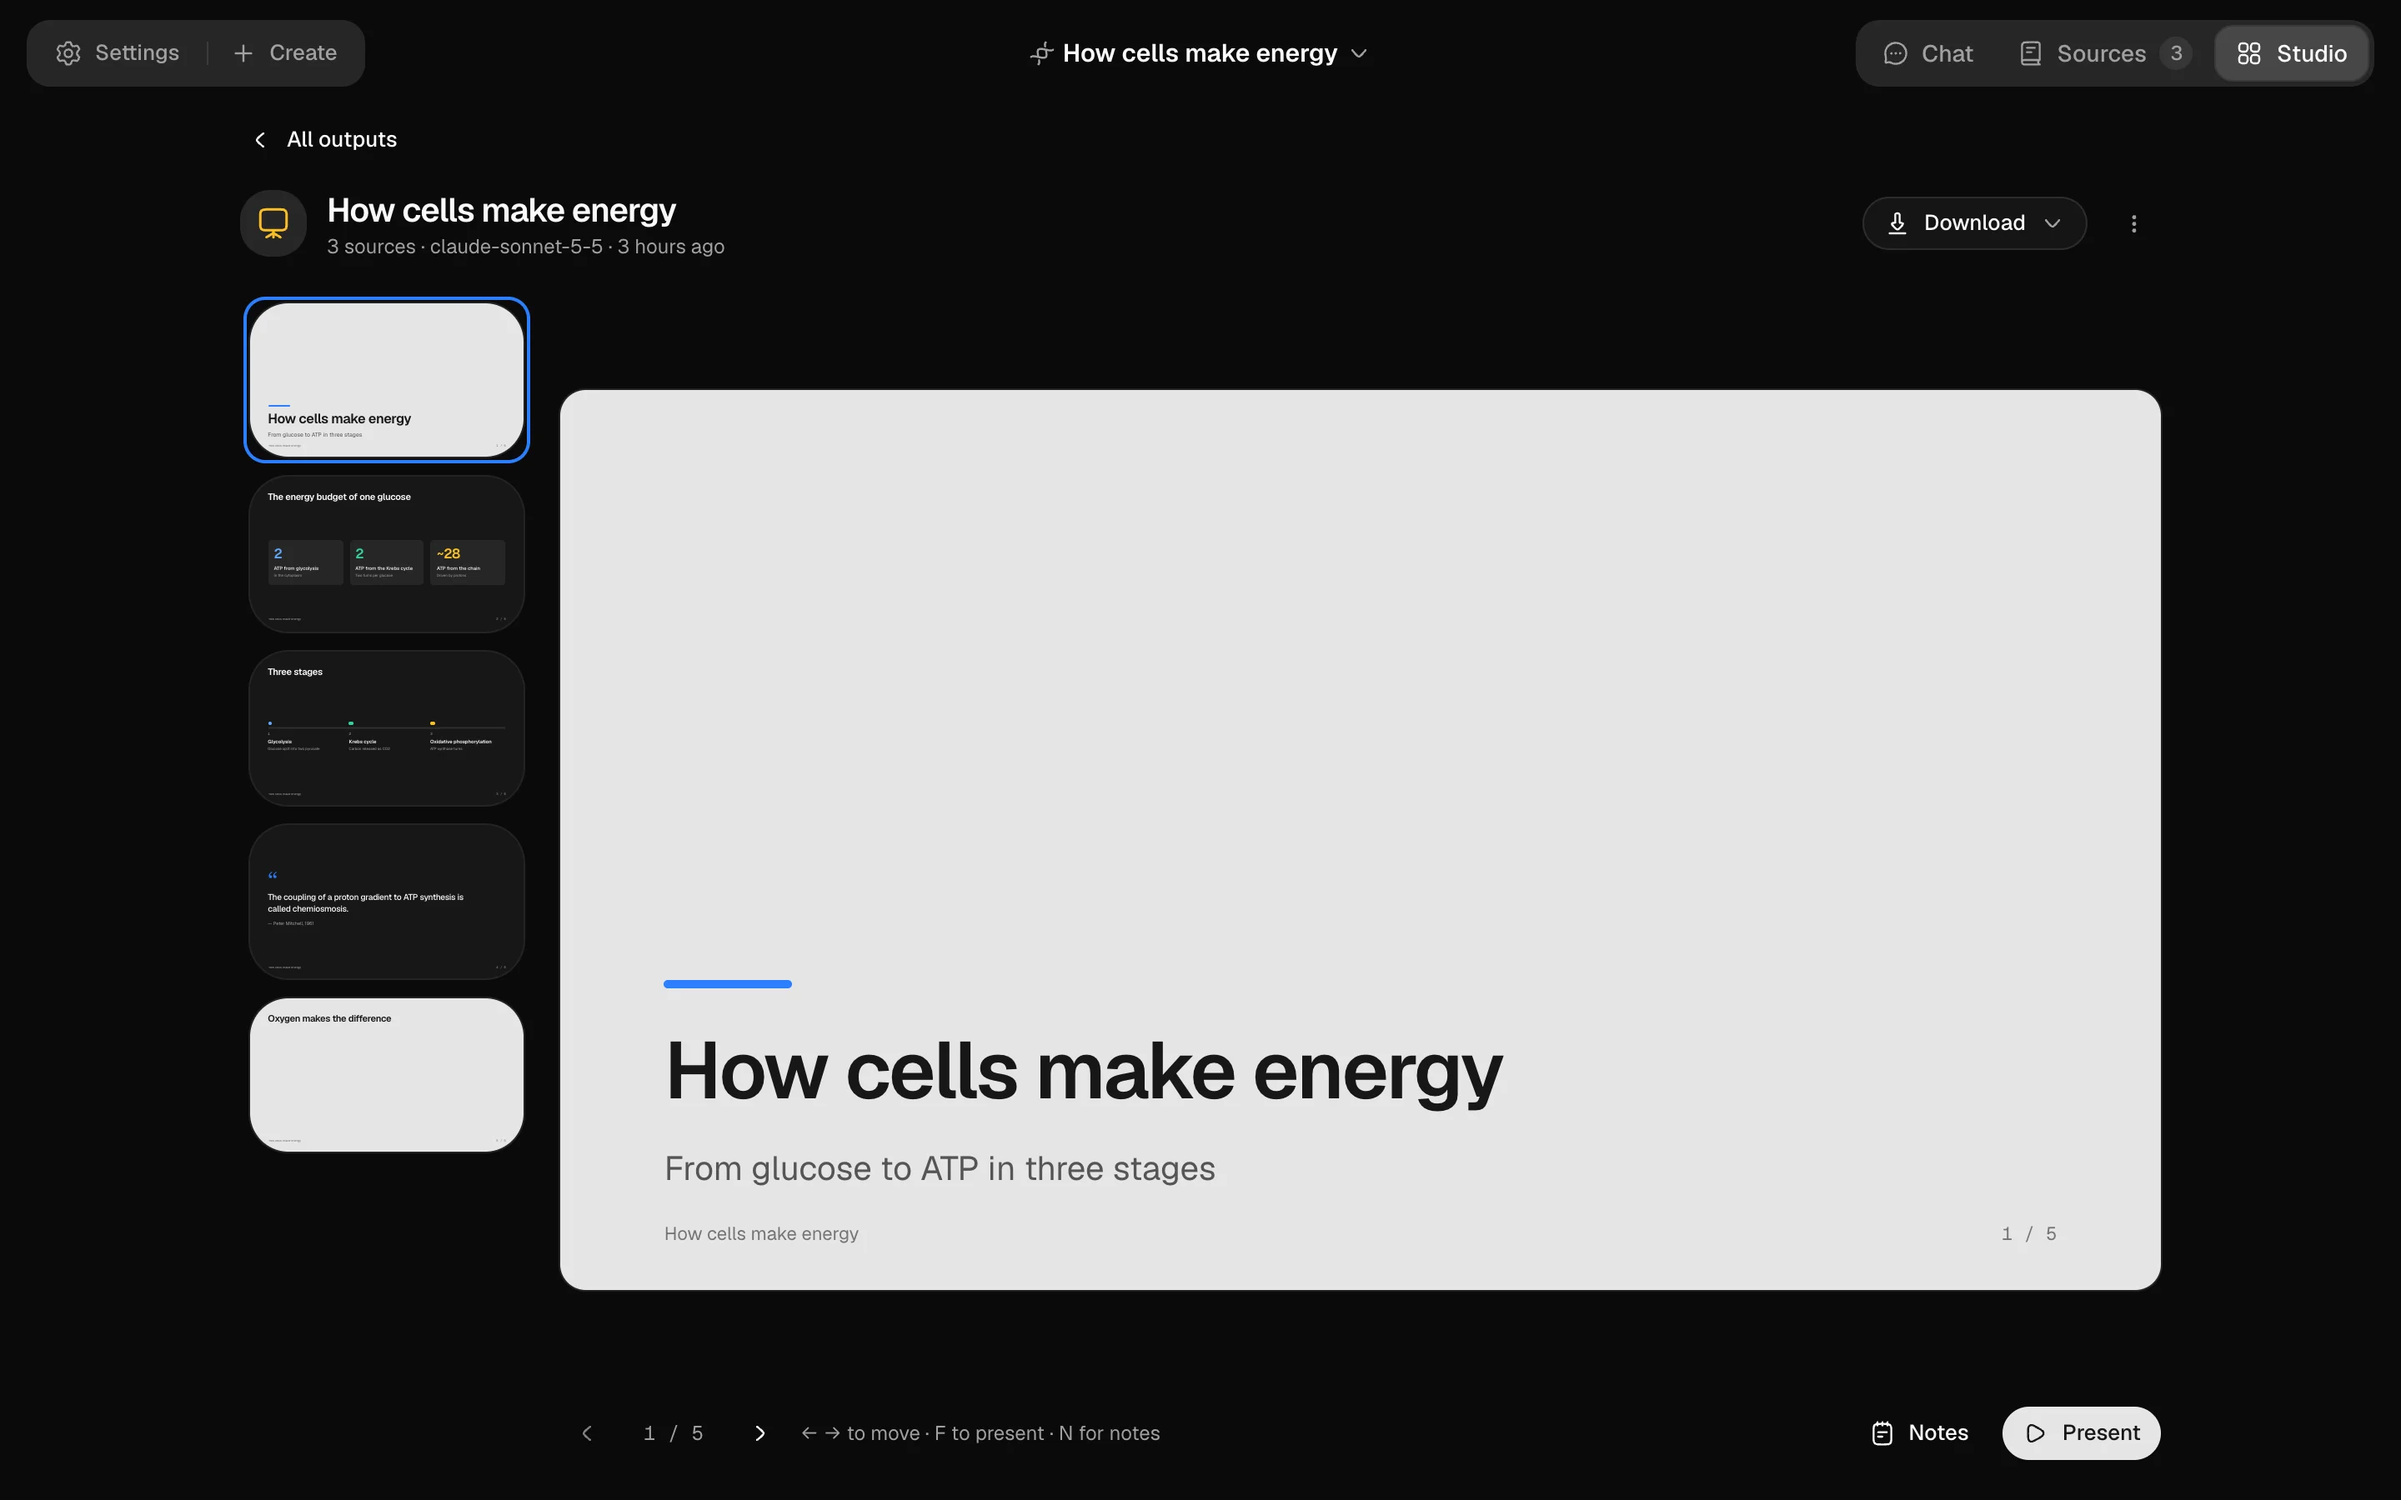
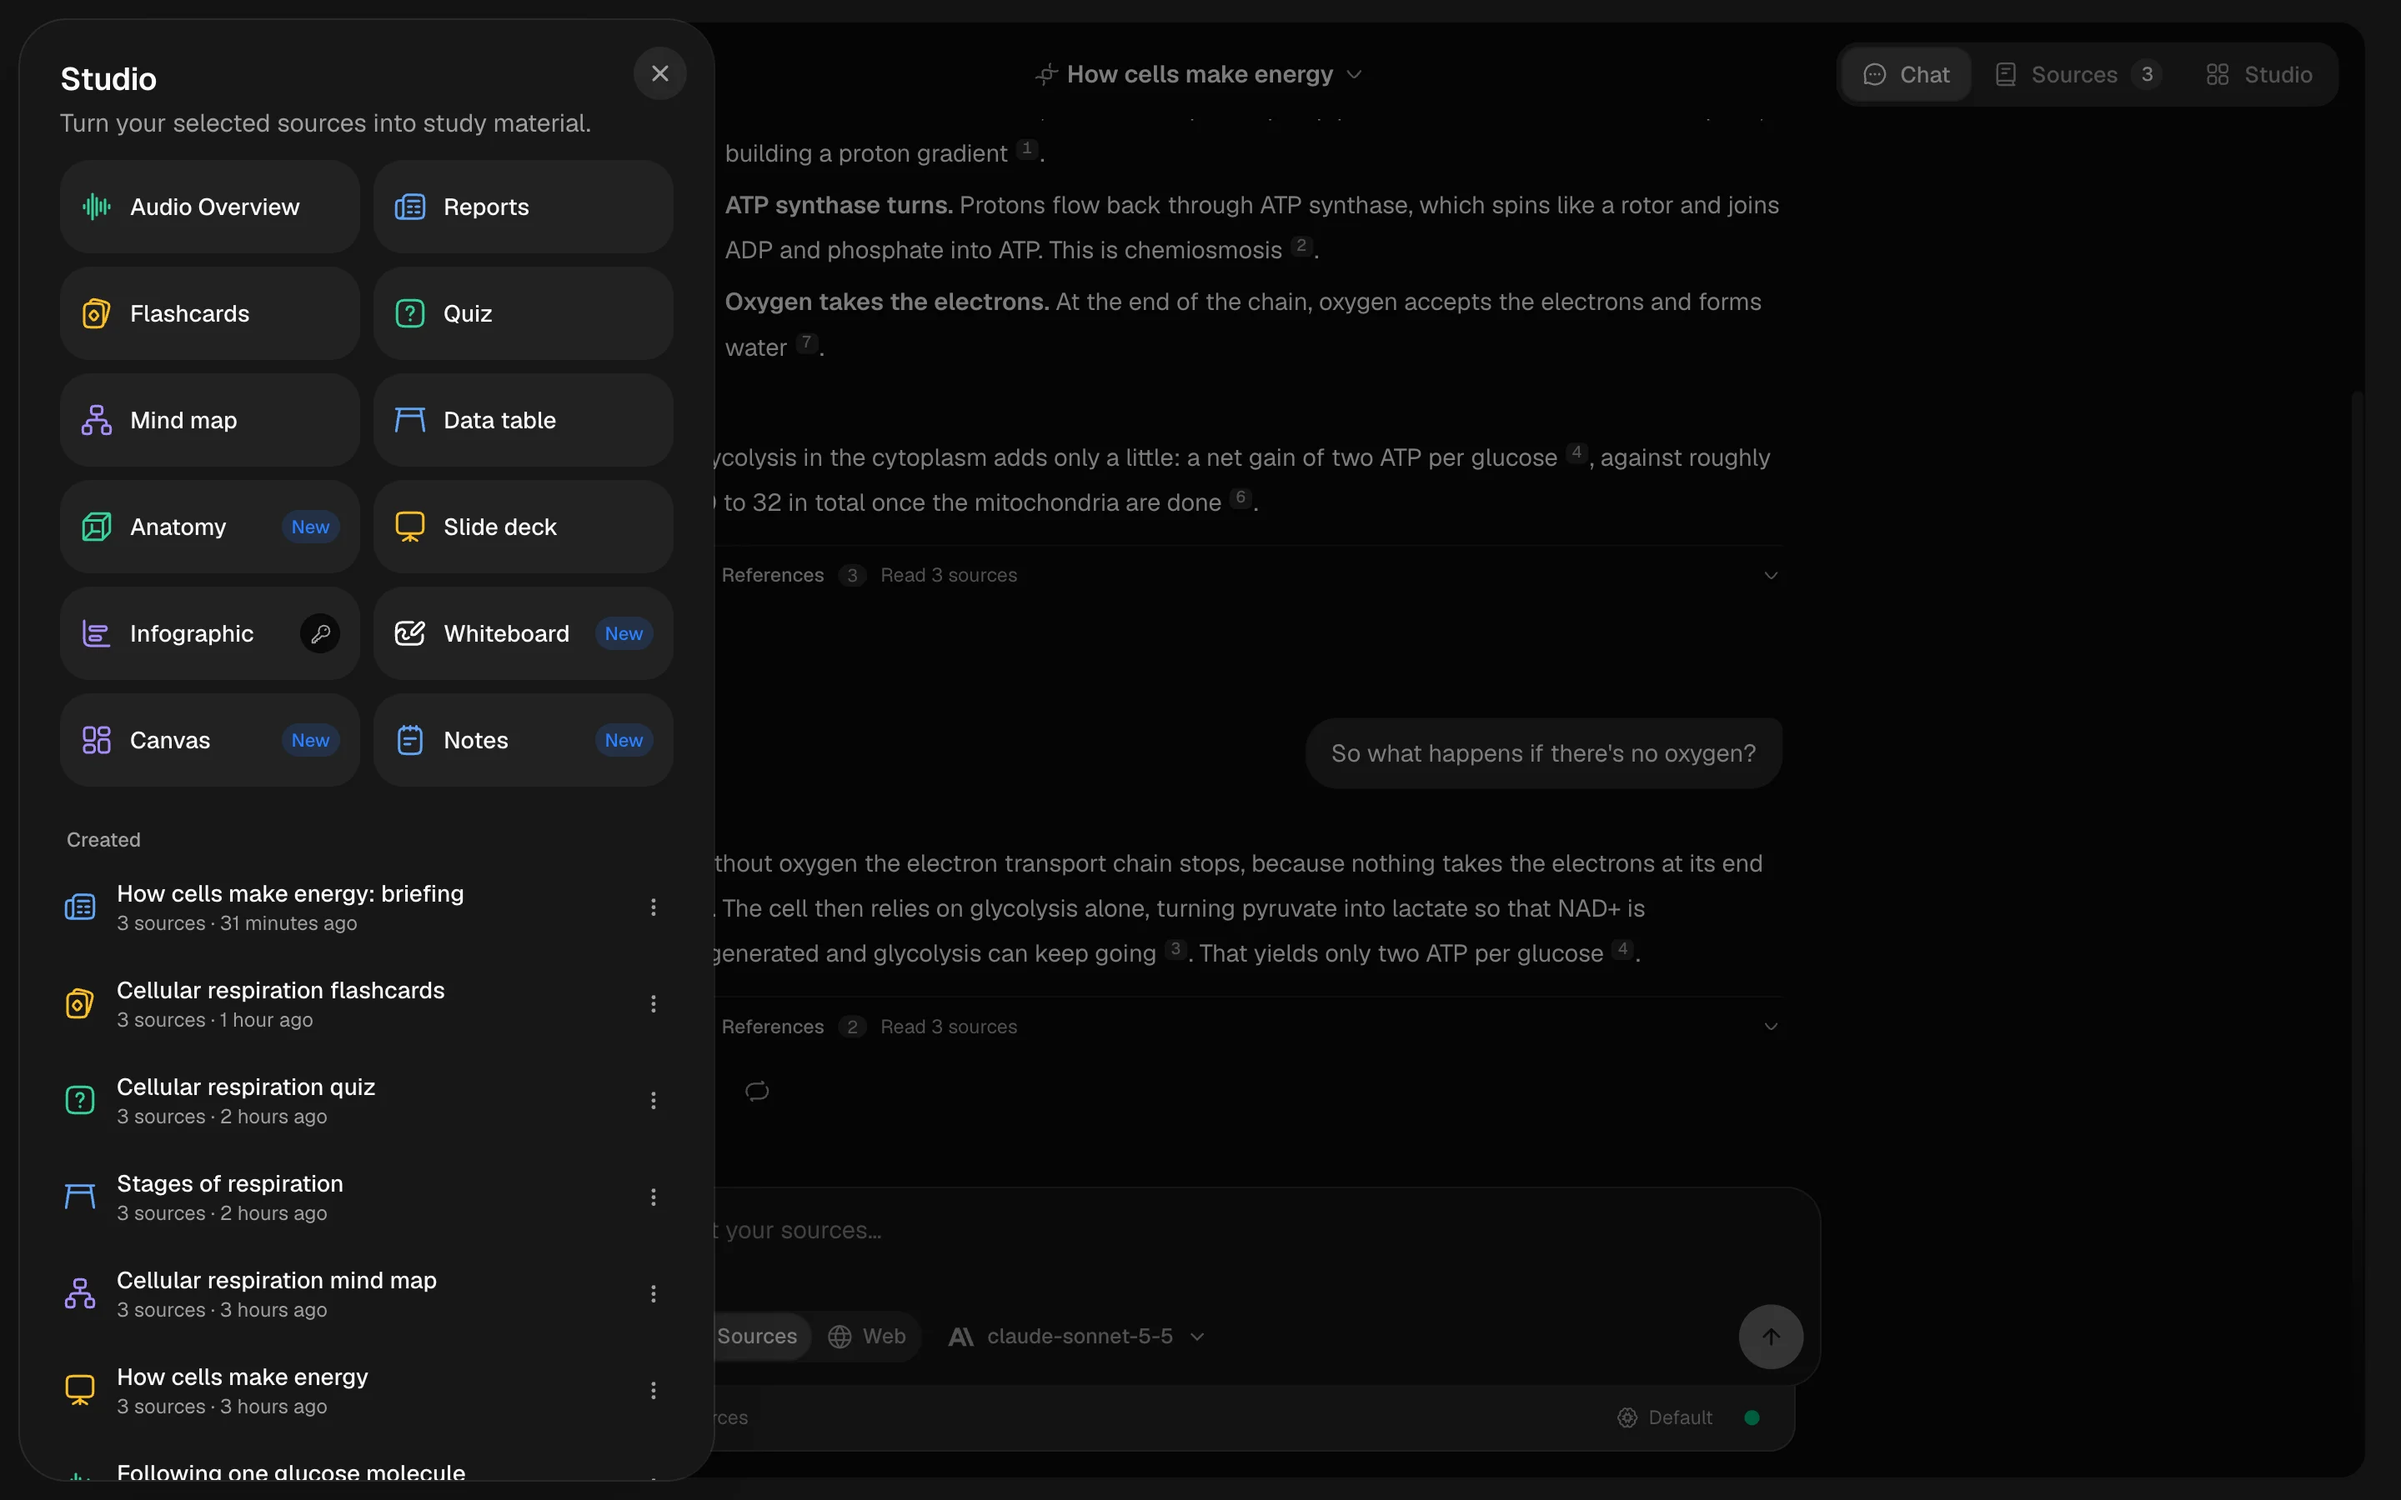
feat(site): hero shows the Studio sheet with every tool
The same view as the old hero, retaken with Audio Overview, Canvas and Notes
and the outputs made from a notebook's sources.

diff --git a/site/components/site/product-preview.tsx b/site/components/site/product-preview.tsx
@@ -1,8 +1,9 @@
 import Image from "next/image";
 
 /**
- * The app itself, under the hero: the Studio tab showing a slide deck made
- * from a notebook's sources, a 2× screenshot in each theme, picked by CSS.
+ * The app itself, under the hero: a notebook with the Studio sheet open,
+ * listing every tool and the outputs made from its sources, a 2× screenshot
+ * in each theme, picked by CSS.
  * Served as the WebP file it is (already compressed for the web) rather than
  * re-encoded by the image optimiser, which softened the text. Not
  * lazy-loaded, since it is near the top of the page.
@@ -13,7 +14,7 @@ export function ProductPreview() {
       <div className="mx-auto max-w-6xl overflow-hidden rounded-2xl border bg-card p-1.5 shadow-sm">
         <Image
           src="/screenshots/studio-light.webp"
-          alt="The Studio tab of a better-vault notebook, showing a five-slide deck on how cells make energy, made from three cited sources"
+          alt="A better-vault notebook with three sources and the Studio open, listing its twelve tools and the outputs made from the sources beside the chat"
           width={2880}
           height={1800}
           unoptimized
@@ -22,7 +23,7 @@ export function ProductPreview() {
         />
         <Image
           src="/screenshots/studio-dark.webp"
-          alt="The Studio tab in dark mode, showing a slide deck made from a notebook's sources"
+          alt="A better-vault notebook in dark mode, with the Studio tools and outputs beside the chat"
           width={2880}
           height={1800}
           unoptimized

diff --git a/site/app/(home)/page.tsx b/site/app/(home)/page.tsx
@@ -91,7 +91,7 @@ function jsonLd() {
         screenshot: {
           "@type": "ImageObject",
           url: absoluteUrl("/screenshots/studio-light.webp"),
-          caption: "A slide deck made from a notebook's sources, in the Studio tab",
+          caption: "A notebook with the Studio open, listing its tools and the outputs made from its sources",
           width: 2880,
           height: 1800,
         },
